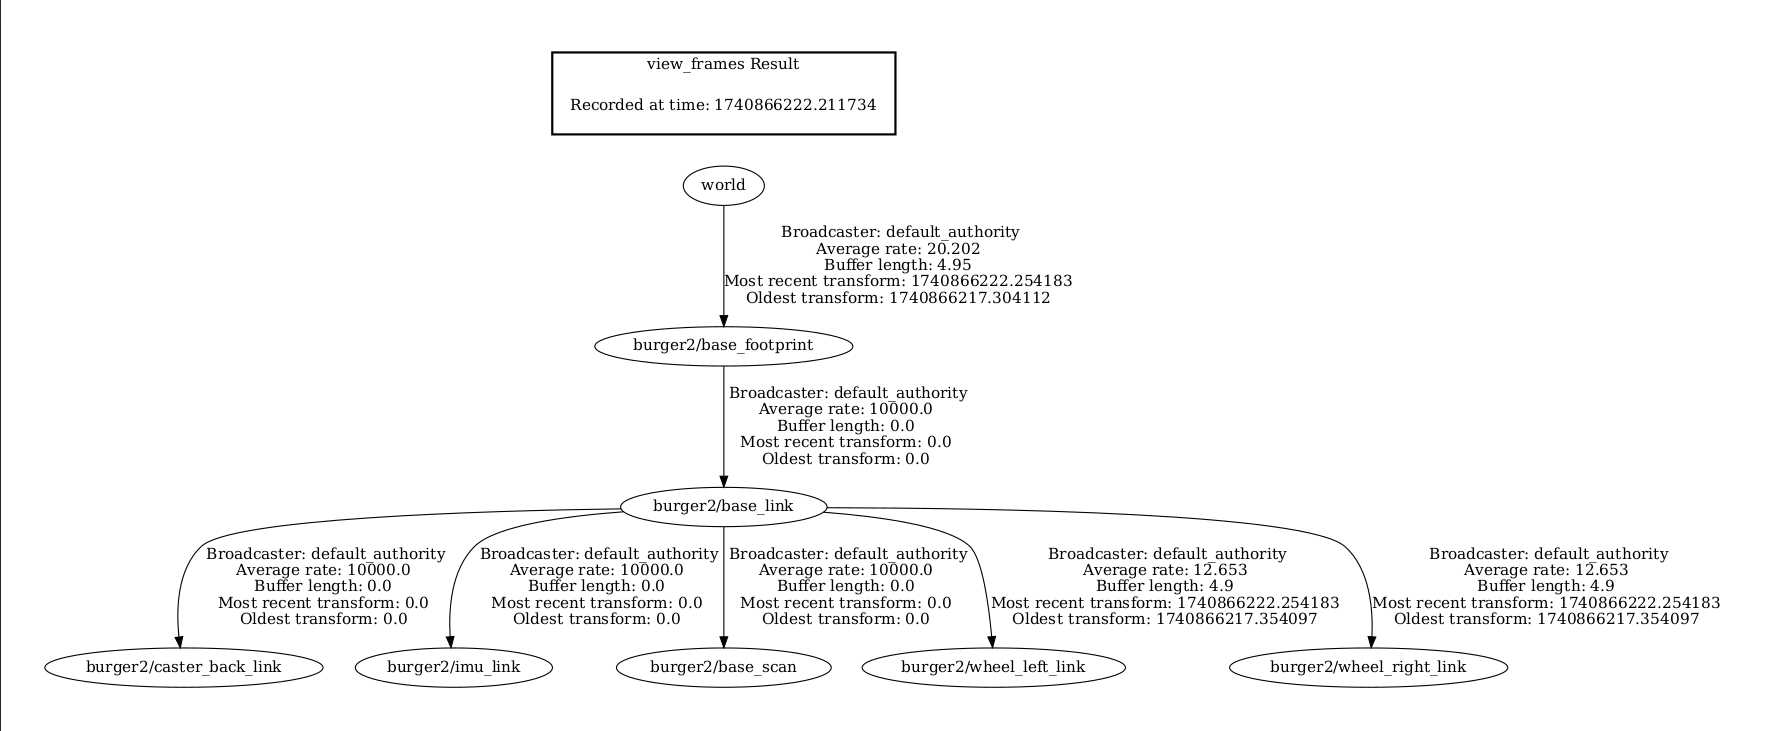
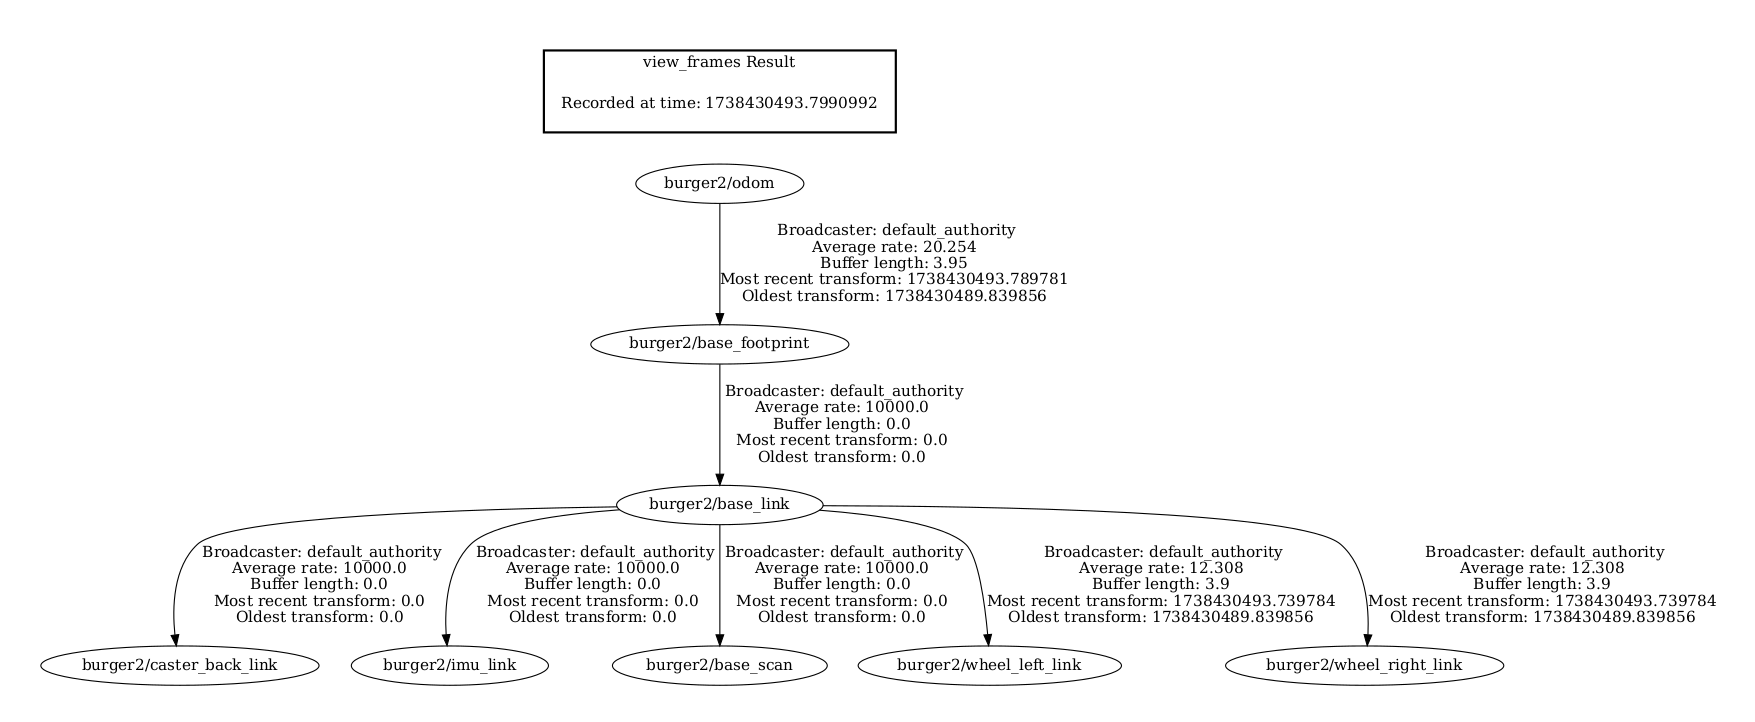
Revert "complete odom initialization setup done v1.0"
This reverts commit 45a69e8241f04430f05c2611f41841e5f7161d5a.

Changed region(s): [[0.0308, 0.6399, 0.9846, 0.9446], [0.3385, 0.3047, 0.6154, 0.6399], [0.3077, 0.0609, 0.5231, 0.3047]]

diff --git a/robot_teleop/src/multi_teleop_keyboard.py b/robot_teleop/src/multi_teleop_keyboard.py
@@ -14,16 +14,16 @@ else:
     import termios
     import tty
 
-"""
-since the robots can be a combination of burger or waffles,
-we're setting the lowest combination of their vel limits 
-as the vel limits for teleoprating all of them together
-"""
-MAX_LIN_VEL = 0.22
-MAX_ANG_VEL = 1.82
+BURGER_MAX_LIN_VEL = 0.22
+BURGER_MAX_ANG_VEL = 2.84
+
+WAFFLE_MAX_LIN_VEL = 0.26
+WAFFLE_MAX_ANG_VEL = 1.82
 
 LIN_VEL_STEP_SIZE = 0.01
 ANG_VEL_STEP_SIZE = 0.1
+
+TURTLEBOT3_MODEL = os.environ['TURTLEBOT3_MODEL']
 
 msg = """
 Control Your TurtleBot3!

diff --git a/README.md b/README.md
@@ -1,9 +1,9 @@
-![GitHub repo size](https://img.shields.io/github/repo-size/ab31mohit/platoon)
+![GitHub repo size](https://img.shields.io/github/repo-size/ab31mohit/btp_pkg)
 
 
-# Introduction
-This ros2 package is the implementation of platoon architecture & control being done as part of my BTP under [Prof. Arnab Dey](https://www.iitr.ac.in/~EE/Arnab_Dey).    
-This doc provides step by step process to setup this package & check the results on either the turtlebot3 hardware (also compatible with simulations).
+# BTP Doc
+This ros2 package is the implementation of things i've done as part of my BTP under [Prof. Arnab Dey](https://www.iitr.ac.in/~EE/Arnab_Dey).    
+This doc provides step by step process to setup this package & check the results on either the turtlebot3 hardware or in gazebo simulation.
 
 
 ## Requirements (apart from Turtlebot3 hardware)
@@ -39,6 +39,22 @@ This doc provides step by step process to setup this package & check the results
   sudo apt install ros-humble-dynamixel-sdk
   ```
 
+<!-- Source your gazebo11 environment    
+```
+echo "source /usr/share/gazebo/setup.sh" >> ~/.bashrc
+source ~/.bashrc
+```
+
+Run gazebo to see if everything is working    
+```
+gazebo --verbose
+```
+It should open the following window (I'm running it in WSL2)
+<div align="center">
+  <img src="media/gazebo11.png" alt="Launching gazebo11 classic" />
+</div>  -->
+
+
 ## Setting up the project  
 
 ### 1. Create a ros2 workspace for this project in your remote PC :
@@ -47,20 +63,18 @@ This doc provides step by step process to setup this package & check the results
 
   ```bash
   cd ~
-  mkdir -p ~/btp_ws/src
-  cd ~/btp_ws/src
+  mkdir -p btp_ws/src
+  cd btp_ws/src
   git clone -b humble-devel https://github.com/ROBOTIS-GIT/turtlebot3_simulations.git
   git clone -b humble-devel https://github.com/ROBOTIS-GIT/turtlebot3_msgs.git
   git clone -b humble-devel https://github.com/ROBOTIS-GIT/turtlebot3.git
-  git clone https://github.com/ab31mohit/platoon.git
-  cd ~/btp_ws/src/turtlebot3/
-  rm -rf turtlebot3_cartographer/ turtlebot3_navigation2/ turtlebot3_example/
+  git clone https://github.com/ab31mohit/btp.git
   cd ~/btp_ws/
-  colcon build --parallel-workers 1
+  colcon build
   echo "source ~/btp_ws/install/setup.bash" >> ~/.bashrc
   ```    
 
-    Make sure all the above clones packages are built without any errors.       
+    Make sure all the above clones packages are built without any errors.    
     
     In some cases you might face some warnings after building. Just rebuild the workspace again and they'll be gone.
 
@@ -108,7 +122,7 @@ This doc provides step by step process to setup this package & check the results
 
 ### 3. Configure ROS2 environment in your SBC (Robots' RPI) :    
 
-Considering you have already configured your Hardware setup as mentioned [here](/TURTLEBOT3_HARDWARE_SETUP.md), follow the below steps to configure this package.    
+Considering you have already configured setup as mentioned [here](https://gist.github.com/ab31mohit/bae0ecfa002597c900024a4800a0c9e4), follow the below steps to configure this package.    
 
 - SSH into the Robot's RPI into your Ubuntu-22 by connecting both to same local network :
 
@@ -136,7 +150,7 @@ Considering you have already configured your Hardware setup as mentioned [here](
 - Clone this package in RPI :    
 
   ```bash
-  git clone https://github.com/ab31mohit/platoon.git
+  git clone https://github.com/ab31mohit/btp.git
   ```
 
 - Build the `turtlebot3_ws` in RPI : 
@@ -148,7 +162,7 @@ Considering you have already configured your Hardware setup as mentioned [here](
 - Update the params in this package according to your robot namespace : 
 
   ```bash
-  cd ~/turtlebot3_ws/src/platoon/robot_bringup/src/
+  cd ~/turtlebot3_ws/src/btp/robot_bringup/src/
   python3 update_ns_param.py
   ```    
   It will take the robot namspace environment variable and use it to set params.     
@@ -161,6 +175,29 @@ Considering you have already configured your Hardware setup as mentioned [here](
 
 
 ## Using the package 
+
+<!-- ### 1. Simulating multiple goal waypoints in gazebo :  
+- Launch the gazebo world   
+```
+ros2 launch turtlebot3_gazebo empty_world.launch.py
+```
+- Launch the rviz in a new terminal
+```
+ros2 launch btp_pkg rviz.launch.py
+```
+- Run the waypoints node in a new terminal
+```
+ros2 run btp_pkg waypoints_node.py
+```
+The default waypoints are as follows :   
+`[ (3.0, 1.0), (4.0, 2.0), (2.0, 3.0) ]`   
+
+We can change the number of waypoints and their values but there is still some need of improvement to consider all cases.   
+
+The output should be something like this : 
+<div align="center">
+  <img src="media/waypoints_simulation.png" alt="Outout of waypoints navigation node" />
+</div>  -->
 
 In this step you will bringup all the robots by connecting them to same network and also connect your remote PC to the same network.   
 
@@ -183,10 +220,10 @@ You will need to know the ip addresses of all those robots so that you can SSH i
   The log of this file should look like something like this  
 
     <div align="center">
-    <img src="robot_bringup/media/ns_burger_bringup/ns_bringup_log.png" alt="Bringup log for burger2" />
+    <img src="robot_bringup/media/ns_burger_bringup/ns_bringup_log.png" alt="Bringup log for burger1" />
     </div>   
 
-  Here, I'm running ***burger*** (TURTLEBOT3_MODEL) with the namespace ***burger2*** (TURTLEBOT3_NAMESPACE).   
+  Here, I'm running ***burger*** (TURTLEBOT3_MODEL) with the namespace ***burger3*** (TURTLEBOT3_NAMESPACE).   
   
 - Open a new tab in the remote PC & run : 
  
@@ -200,10 +237,10 @@ You will need to know the ip addresses of all those robots so that you can SSH i
   It will show the topics something like this :    
 
     <div align="left">
-    <img src="robot_bringup/media/ns_burger_bringup/ns_bringup_topics.png" alt="ROS2 topics for burger2" />
+    <img src="robot_bringup/media/ns_burger_bringup/ns_bringup_topics.png" alt="Ros2 topics for burger1" />
     </div>   
 
-  Here all the topics of this robot are namespaced with ***burger2*** as i used this as the namespace for this robot except `/tf` and `/tf_static`.   
+  Here all the topics of this robot are namespaced with ***burger3*** as i used this as the namespace for this robot except `/tf` and `/tf_static`.   
 
 - To understand the transforms that are being used in the background, run :  
   
@@ -215,17 +252,17 @@ You will need to know the ip addresses of all those robots so that you can SSH i
   The content of that file will be like this    
 
     <div align="center">
-    <img src="robot_bringup/media/ns_burger_bringup/ns_bringup_tf_frames.png" alt="Transform data for burger2" />
+    <img src="robot_bringup/media/ns_burger_bringup/ns_bringup_tf_frames.png" alt="Transform data for burger1" />
     </div> 
 
   Now you can understand that we've only namespaced the frames ***odom*** and ***base_footprint*** of the robot in the global trannsform topics /tf & /tf_static without namespacing these global topics.     
   This is becase we need a global transform data which can keep track of transform of all the robots.   
-  My approach was to publish the transform data of all the robots onto global transform topics with namespaces and then there will one parent `world` frame whose child will be all the sub odoms of the robots.      
-  This `world` will be on that `odom` frame of one of the robots (that we'll choose as our Leader robot in the platoon).    
+  My approach was to publish the transform data of all the robots onto global transform topics with namespaces and then there will one parent `global_odom` frame whose child will be all the sub odoms of the robots.      
+  This `global_odom` will be on that `odom` frame of one of the robots (that we'll choose as our Leader robot in the platoon).    
   Just below you'll see that that i've namespaced all the nodes as well that are associated to the important topics of the robot (to differentiate them with that of others).     
 
 - Understand flow of information using rqt_graph : 
-To understand what i just said above and visualize how the information is getting traversed between the nodes & topics within the ROS environment, we can use rqt_graph.    
+To understand what i just said above and visualize how the information is travelling between nodes and topics within the ROS environment, we can use rqt_graph.    
 
 - Run this command to open rqt_graph : 
 
@@ -235,7 +272,7 @@ To understand what i just said above and visualize how the information is gettin
   Refresh the rqt_window and select specific checkpoints and it will look something like this    
 
     <div align="center">
-    <img src="robot_bringup/media/ns_burger_bringup/ns_bringup_rqt.png" alt="Transform data for burger2" />
+    <img src="robot_bringup/media/ns_burger_bringup/ns_bringup_rqt.png" alt="Transform data for burger1" />
     </div>  
   It is clear that all the nodes and topics are namespaced except the */tf* and */tf_static* topics and i already gave the reason for that.   
   
